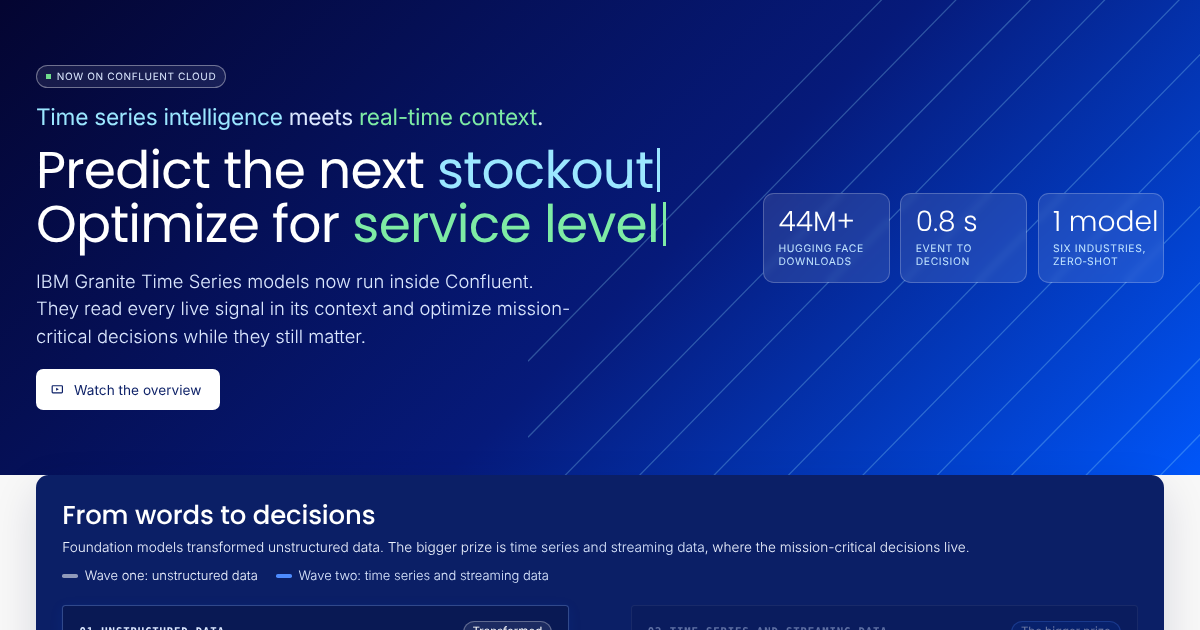
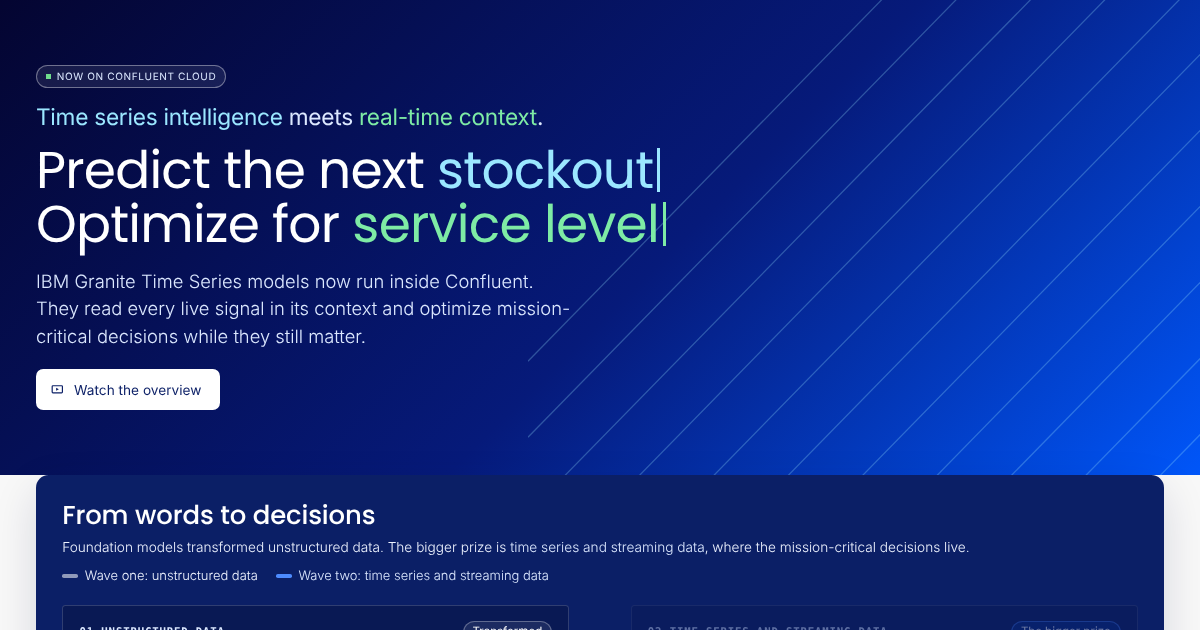
Hero: the stat tiles come out, the band keeps the lines
Claude-Session: https://claude.ai/code/session_013zprxuF6JZeT9VyQEY4Gan

Changed region(s): [[0.6167, 0.3016, 0.9867, 0.4524]]

diff --git a/index.html b/index.html
@@ -1741,7 +1741,7 @@ h3,h4,.stage-title h3{font-weight:500;letter-spacing:-.005em}
 .chapter.hero{padding-top:0}
 .hero-band{position:relative;overflow:hidden;background:linear-gradient(135deg,#040531 0%,#061a7a 55%,#0056F9 100%);color:#fff;margin-bottom:clamp(28px,3.5vw,56px)}
 .hero-band .lines{position:absolute;right:-6%;top:-20%;width:62%;height:160%;opacity:.5;pointer-events:none}
-.hero-band .wrap{position:relative;display:grid;grid-template-columns:minmax(0,1.45fr) minmax(300px,.85fr);gap:2rem 3rem;align-items:center;padding-block:clamp(40px,6vw,88px)}
+.hero-band .wrap{position:relative;display:grid;grid-template-columns:1fr;align-items:center;padding-block:clamp(40px,6vw,88px)}
 .hero-band .hero-head{margin-bottom:0}
 .hero-band .pill.live{border-color:rgba(255,255,255,.38);color:#DCE8FF;background:rgba(255,255,255,.08)}
 .hero-band .pill.live::before{background:#6fdc8c}
@@ -1757,12 +1757,7 @@ h3,h4,.stage-title h3{font-weight:500;letter-spacing:-.005em}
 .hero-band .btn.play{background:#fff;color:#0B1F66;box-shadow:none}
 .hero-band .btn.play:hover{background:#DCE8FF;color:#0B1F66}
 .hero-band .btn.play small{color:#4A5A8F}
-.hero-stats{display:grid;grid-template-columns:repeat(3,minmax(0,1fr));gap:.75rem;position:relative}
-.hstat{background:rgba(255,255,255,.1);border:1px solid rgba(255,255,255,.22);border-radius:12px;padding:.9rem 1rem;backdrop-filter:blur(4px);-webkit-backdrop-filter:blur(4px)}
-.hstat b{display:block;font-family:var(--font-head);font-weight:300;font-size:clamp(1.6rem,2.6vw,2.3rem);line-height:1.05;color:#fff;white-space:nowrap;font-variant-numeric:tabular-nums}
-.hstat span{display:block;font-size:.72rem;color:#C2E5FF;letter-spacing:.06em;text-transform:uppercase;margin-top:.35rem;line-height:1.3}
-@media (max-width:1100px){.hero-band .wrap{grid-template-columns:1fr}.hero-band .lines{right:-30%;width:90%;opacity:.35}.hero-stats{max-width:640px}}
-@media (max-width:600px){.hero-stats{grid-template-columns:1fr 1fr}.hero-stats .hstat:last-child{grid-column:1/-1}}
+@media (max-width:1100px){.hero-band .lines{right:-30%;width:90%;opacity:.35}}
 
 /* ---------- nav groups: four tabs, sub-tabs open under them on hover or tap ---------- */
 .nav-links{overflow:visible;gap:.15rem}
@@ -1854,11 +1849,6 @@ h3,h4,.stage-title h3{font-weight:500;letter-spacing:-.005em}
       <h1 class="h-display">Predict the next <em class="rot"><span id="rot">stockout</span><i class="caret" aria-hidden="true"></i></em><br>Optimize for <em class="rot rot2"><span id="rot2">service level</span><i class="caret c2" aria-hidden="true"></i></em></h1>
       <p class="lede">IBM Granite Time Series models now run inside Confluent. They read every live signal in its context and optimize mission-critical decisions while they still matter.</p>
       <div class="btn-row hero-cta"><a class="btn play" id="walk-open" href="#demos-film" aria-label="Watch the two-minute overview film"><svg viewBox="0 0 16 16" aria-hidden="true"><rect x="1.5" y="3.5" width="13" height="9" rx="1" fill="none" stroke="currentColor" stroke-width="1.5"/><path d="M6.5 6l3.5 2-3.5 2z" fill="currentColor"/></svg>Watch the overview <small>1:58</small></a></div>
-    </div>
-    <div class="hero-stats" aria-label="Key figures">
-      <div class="hstat"><b>44M+</b><span>Hugging Face downloads</span></div>
-      <div class="hstat"><b>0.8 s</b><span>Event to decision</span></div>
-      <div class="hstat"><b>1 model</b><span>Six industries, zero‑shot</span></div>
     </div>
     </div>
   </div>
